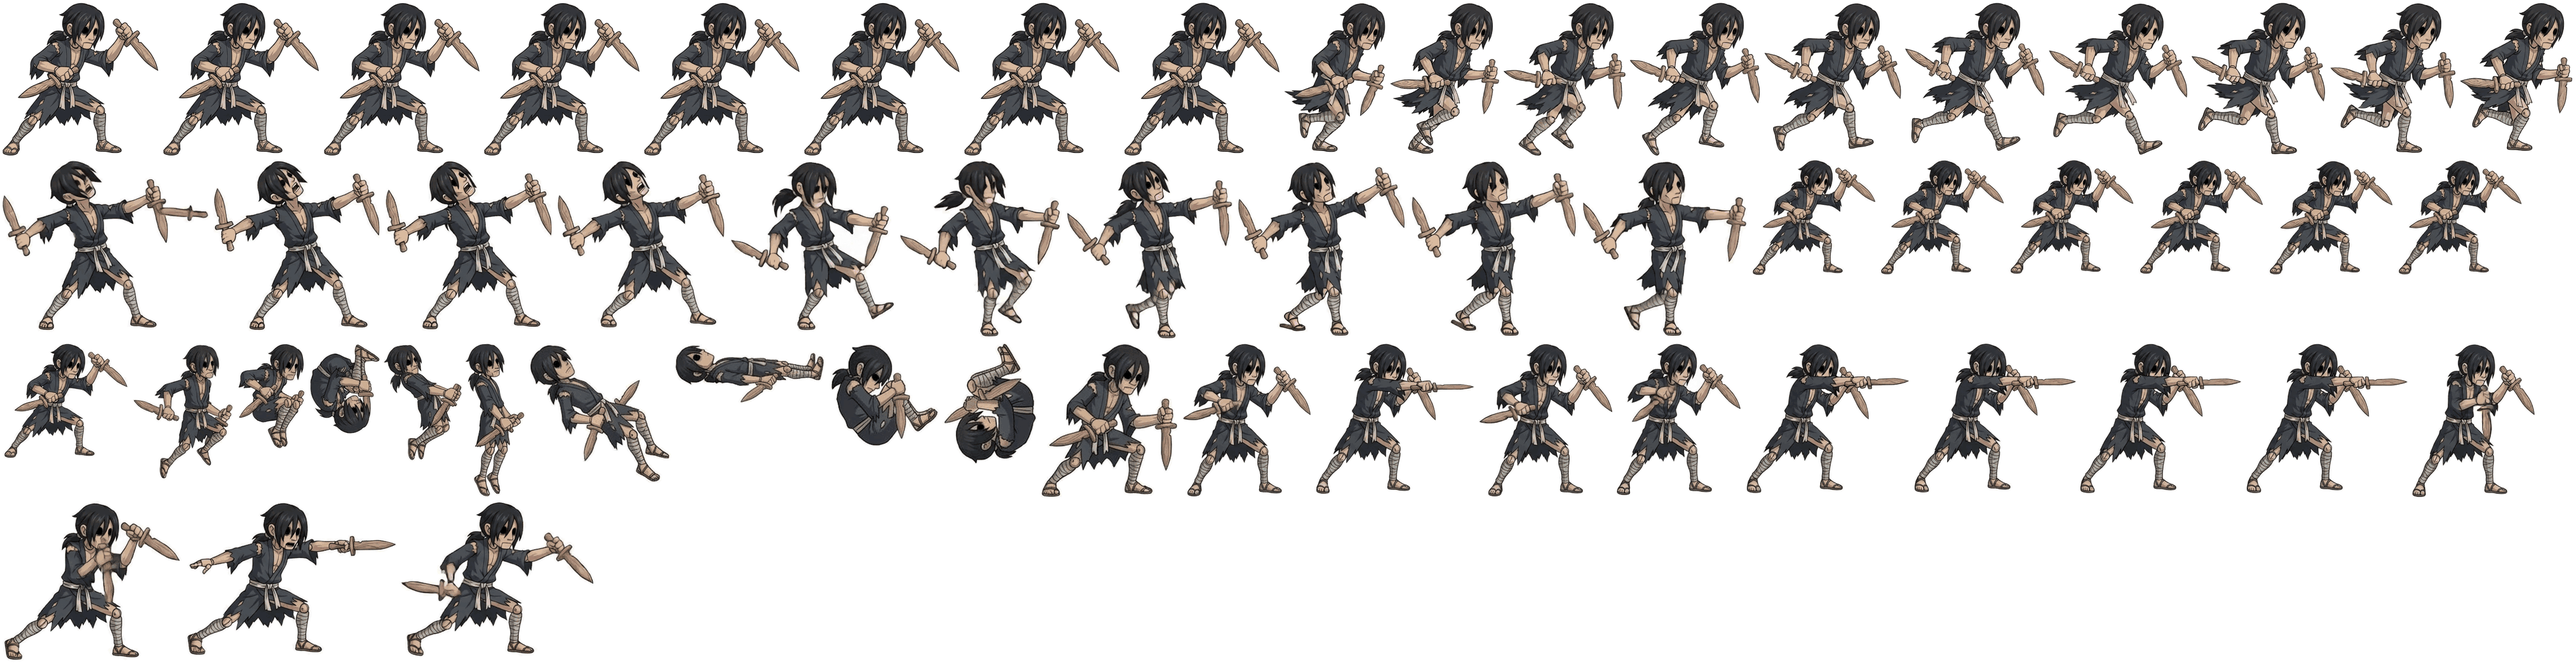
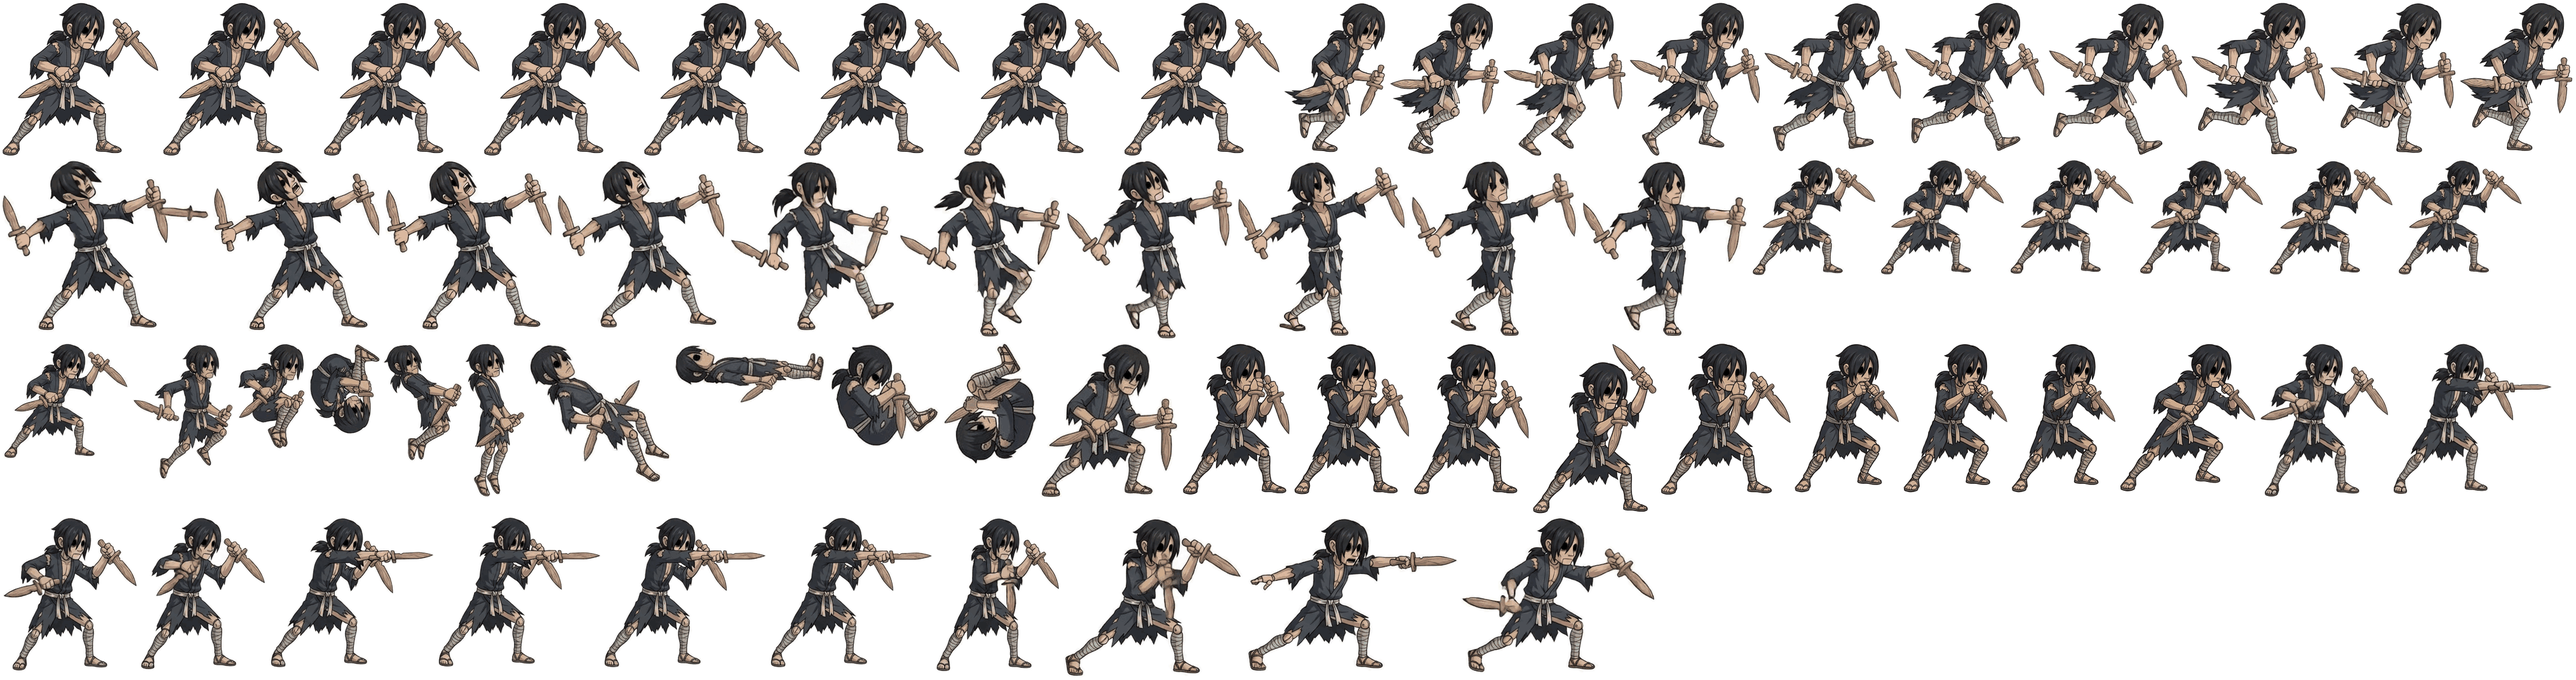
SCRAMBLE: add crouch-block state and wire up Nyx's block art
── ก้มกัน (state ใหม่) ──
เดิมโค้ดเช็ค block ก่อน down เสมอ กด block+ลง จึงได้ 'block' เฉย ๆ ปุ่มลงถูกเมินทั้งหมด
ตอนนี้ block + กดลง = 'blockcrouch' กรอบเตี้ยลงเท่าท่าย่อ (88 เทียบยืน 118)
กันเฉย ๆ ยังเป็น 'block' เหมือนเดิม และย่อเฉย ๆ ยังเป็น 'crouch' เหมือนเดิม ไม่กระทบของเก่า

lowStun: จำไว้ว่า blockstun นี้มาจากท่าก้ม เพื่อให้กรอบเตี้ยตลอดช่วงเซ
ไม่งั้นโดนตีตอนก้มกันแล้วกรอบเด้งสูงกลางคัน = ท่าที่ตีสูงจิ้มโดนหัวได้ทั้งที่ก้มกันอยู่ตลอด

── อาร์ตท่ากัน ──
ชีต 9 ท่า -> block (ท่า 3-5 การ์ดนิ่งแล้ว) + blockstun (ท่า 1-2 การ์ดยังเปิด เล่นครั้งเดียวไม่วน)
ชีต 11 ท่า -> blockcrouch (เลือก 4 ท่า ที่เหลือแทบเหมือนกันหมด)

ชีตทั้งสองเป็นท่ากันล้วน ไม่มีท่ายืนในตัวเองให้ใช้เทียบสเกลเหมือนชีตกระโดด/ชีตล้ม
รูปท่ายืนถูกส่งมาแยกไฟล์ซึ่งถ่ายคนละระยะ (ตัวสูง 1267 px เพราะตัวเดียวเต็มเฟรม
ส่วนในชีตสูงราว 580 เพราะยัด 9-11 ท่าในเฟรมเดียว) จึงเพิ่ม CLIP_STANDING_PX
ให้ระบุความสูงท่ายืนเป็นพิกเซลตรง ๆ ได้

ค่าแรกคิดจากขนาดใบหน้า (551) ลองแล้วตัวใหญ่กว่าท่ายืน 5% ปรับเป็น 585 จากการวัดภาพในเกมจริง
ได้ท่ากันสูง 98% ของท่ายืน และสูงกว่า hurtbox 9% (ท่ายืนสูงกว่ากรอบ 11%) = อยู่ในกรอบพอดีแล้ว

── ที่ยังไม่จบ ──
อาร์ต "ก้มกัน" ที่ส่งมาไม่ได้ก้มจริง วัดในเกมได้ 97% ของความสูงท่ายืน
(ท่าย่อจริงอยู่ที่ 76%) ต่างกันแค่ตำแหน่งแขน ไม่ได้ลดตัวลง
สไปรท์จึงลอยพ้นกรอบ hurtbox ที่เตี้ยลงแล้วถึง 44% ซึ่งเห็นชัดในห้องซ้อมที่เปิดโชว์ hitbox
ไม่แก้ด้วยการย่อสไปรท์ลงให้พอดีกรอบ เพราะนั่นคือการหดตัวละครทั้งตัว
ซึ่งเป็นบั๊กเดียวกับ "ท่าย่อหดเล็ก" ที่เพิ่งแก้ไป — ต้องได้อาร์ตที่ย่อจริงมาแทน
[…]

Changed region(s): [[0.0, 0.0306, 1.0, 1.0]]

diff --git a/game/src/modes/scramble/ScrambleScene.js b/game/src/modes/scramble/ScrambleScene.js
@@ -350,7 +350,8 @@ class ScrambleScene extends Phaser.Scene {
       anchorX: meta.anchorX ?? 192, feetY: meta.feetY ?? 315, standing: meta.standing ?? 300,
       canvasW: meta.canvasW ?? 323, canvasH: meta.canvasH ?? 321,
     };
-    this.nyxAnims = { idle: 8, run: 10, hurt: 10, crouch: 7, jump: 5, knockdown: 2, techroll: 2, tech: 1 };
+    this.nyxAnims = { idle: 8, run: 10, hurt: 10, crouch: 7, jump: 5, knockdown: 2, techroll: 2, tech: 1,
+      block: 3, blockstun: 2, blockcrouch: 4 };
     // ท่าโจมตีที่มีอาร์ตแล้ว — 3 เฟรมต่อท่า: 1 เงื้อ / 2 ฟันสุดแขน / 3 ชักกลับ
     // ไม่ลงทะเบียนเป็น animation เพราะไม่ได้เล่นตามเวลา แต่เลือกเฟรมตาม phase() ของเอนจิ้น
     // (ดู _drawNyxSprite) ท่าที่ยังไม่มีอาร์ตไม่ต้องใส่ เดี๋ยววาดเป็นกล่องเหมือนเดิม
@@ -368,13 +369,14 @@ class ScrambleScene extends Phaser.Scene {
         frameRate:
           n / (name === 'run'
             ? RUN_STRIDE / (PHYS.run * 60)
-            : { idle: 0.8, hurt: 0.5, crouch: 1.2, jump: 0.6, knockdown: 0.25, techroll: 0.22, tech: 0.17 }[name]),
+            : { idle: 0.8, hurt: 0.5, crouch: 1.2, jump: 0.6, knockdown: 0.25, techroll: 0.22, tech: 0.17,
+                block: 1.0, blockstun: 0.2, blockcrouch: 1.0 }[name]),
         // ท่าโดนตีเล่นรอบเดียวแล้วค้างเฟรมสุดท้าย — hitstun ในเอนจิ้นยาวไม่เท่ากัน (17-38 เฟรม)
         // ถ้าวนซ้ำ ตัวจะสะบัดรับแรงซ้ำ ๆ ทั้งที่โดนตีครั้งเดียว
         // ท่าที่ "เล่นจบแล้วค้าง" = ท่าที่เอนจิ้นถือไว้ยาวไม่เท่ากันทุกครั้ง
         // โดนตี: hitstun 17-38 เฟรมแล้วแต่ท่าที่โดน · กระโดด: ลอยนานแค่ไหนแล้วแต่กดค้าง/ชนเพดาน
         // ถ้าวนซ้ำจะเห็นสะบัดรับแรงซ้ำ ๆ หรือตีลังกาวนไม่หยุดกลางอากาศ
-        repeat: ["hurt", "jump", "knockdown", "tech"].includes(name) ? 0 : -1,
+        repeat: ["hurt", "jump", "knockdown", "tech", "blockstun"].includes(name) ? 0 : -1,
       });
     }
     this.nyx = this.add.sprite(0, 0, 'scnyx', 'idle_1.png').setVisible(false).setDepth(5);
@@ -411,6 +413,7 @@ class ScrambleScene extends Phaser.Scene {
       run: 'run', walk: 'run', idle: 'idle', crouch: 'crouch',
       air: 'jump', landing: 'jump',
       hitstun: 'hurt', knockdown: 'knockdown', techroll: 'techroll', tech: 'tech',
+      block: 'block', blockcrouch: 'blockcrouch', blockstun: 'blockstun',
     }[f.state] ?? null;
     if (!key) { this.nyx.setVisible(false); return false; }
 

diff --git a/game/src/modes/scramble/core.js b/game/src/modes/scramble/core.js
@@ -92,7 +92,7 @@ const MOVES = {
     untilLand: true, landLag: 14, pogo: -12 },
 };
 
-const ACTIONABLE = new Set(['idle', 'walk', 'run', 'crouch', 'air', 'block']);
+const ACTIONABLE = new Set(['idle', 'walk', 'run', 'crouch', 'air', 'block', 'blockcrouch']);
 
 class Fighter {
   constructor(id, name, x, facing) {
@@ -108,7 +108,14 @@ class Fighter {
       comboHits: 0, comboDmg: 0, wallBounced: false, jumpHeldSinceTakeoff: false, techBuf: 0, techLock: 0,
     });
   }
-  get h() { return (this.state === 'crouch' || (this.move && this.move.crouch) || this.state === 'knockdown' || this.state === 'techroll') ? PHYS.crouchH : PHYS.standH; }
+  // กันแบบก้ม (blockcrouch) ตัวเตี้ยเท่าท่าย่อ — ไม่งั้นก้มกันแล้วกรอบยังสูงเท่าเดิม ก็ไม่ต่างจากกันยืน
+  // lowStun = จำไว้ว่า blockstun นี้มาจากท่าก้ม เพื่อให้กรอบยังเตี้ยตลอดช่วงเซ ไม่เด้งสูงกลางคัน
+  // (เด้งสูงกลางคันแปลว่าท่าที่ตีสูงจะจิ้มโดนหัวได้ ทั้งที่ผู้เล่นก้มกันอยู่ตลอด)
+  get h() {
+    const low = this.state === 'crouch' || this.state === 'blockcrouch' || (this.state === 'blockstun' && this.lowStun)
+      || (this.move && this.move.crouch) || this.state === 'knockdown' || this.state === 'techroll';
+    return low ? PHYS.crouchH : PHYS.standH;
+  }
   hurtbox() { const w = PHYS.width; return { x: this.x - w / 2, y: this.y - this.h, w, h: this.h }; }
   hitbox() {
     const m = this.move; if (!m || this.state !== 'attack') return null;
@@ -265,7 +272,9 @@ class Game {
       this.startMove(f, this.pickMove(f, inp), dir); return;
     }
     if (f.onGround) {
-      if (inp.block) { f.setState('block'); f.vx *= PHYS.stopFric; return; }
+      // กัน + กดลง = ก้มกัน (กรอบเตี้ยลงเท่าท่าย่อ) · กันเฉย ๆ = กันยืนเหมือนเดิม
+      // เช็ค block ก่อน down เหมือนเดิม ท่าย่อธรรมดาจึงไม่เปลี่ยนพฤติกรรม
+      if (inp.block) { f.setState(inp.down ? 'blockcrouch' : 'block'); f.vx *= PHYS.stopFric; return; }
       if (inp.down) { f.setState('crouch'); f.vx *= PHYS.stopFric; return; }
       if (dir !== 0) {
         f.facing = dir;
@@ -403,7 +412,8 @@ class Game {
     const m = a.move; a.hitList.add(d.id); a.hitConfirmed = true;
     const fx = hb.x + hb.w / 2, fy = hb.y + hb.h / 2;
     const facingAttacker = Math.sign(a.x - d.x) === d.facing || a.x === d.x;
-    if (d.state === 'block' && d.onGround && facingAttacker) {
+    if ((d.state === 'block' || d.state === 'blockcrouch') && d.onGround && facingAttacker) {
+      d.lowStun = d.state === 'blockcrouch';
       d.setState('blockstun'); d.stun = Math.ceil(m.stun * 0.45);
       d.vx = a.facing * 5; a.vx = -a.facing * 3;
       a.hitstop = d.hitstop = 4;

diff --git a/game/tools/build_scramble_nyx.py b/game/tools/build_scramble_nyx.py
@@ -61,6 +61,14 @@ SEQ = {
     # ไม่ใช่ animation ที่เล่นตามเวลา แต่ฉากเลือกเฟรมจาก phase() ของเอนจิ้นตรง ๆ (startup/active/recovery)
     # จึงตรงกับเฟรมเดต้าเป๊ะโดยไม่ต้องกะ fps ให้พอดีเอง — ดู _drawNyxSprite ใน ScrambleScene.js
     # เลี่ยงเฟรมที่มีเส้นฟัน (f65 ของคลิป jab) ตามกติกาใน HANDOFF: VFX วาดในเอนจิ้น ไม่เอาติดมากับอาร์ต
+    # ---- ท่ากัน ----
+    # block       = กันยืนค้าง (ท่า 3-5 ของชีต = การ์ดนิ่งแล้ว ท่า 1-2 เป็นจังหวะยกการ์ดขึ้น)
+    # blockstun   = โดนตีขณะกัน ใช้ท่า 1-2 ที่การ์ดยังเปิด/ดาบสะบัดขึ้น เล่นครั้งเดียวไม่วน
+    # blockcrouch = ก้มกัน (ชีตอีกไฟล์ ท่าเกือบเหมือนกันหมด เลือกมา 4 ท่าพอ)
+    "block":       ("@block_sheet",    range(3, 6)),
+    "blockstun":   ("@block_sheet",    range(1, 3)),
+    "blockcrouch": ("@blocklow_sheet", range(1, 5)),
+
     "jab1": ("jab",   [38, 46, 58]),
     "jab2": ("jab",   [120, 127, 134]),
     "jab3": ("jab",   [146, 154, 162]),
@@ -80,6 +88,21 @@ CLIP_REF = {
     "@down_sheet": 5,                 # ท่า 5 = ลุกยืนตั้งการ์ด
     "jab": "jab/f_030.png",           # f30 = ท่ายืนก่อนออกหมัด
     "lunge": "lunge/f_070.png",       # f70 = ท่ายืนก่อนพุ่ง
+}
+
+# ความสูง "ท่ายืน" ของแหล่งที่ไม่มีท่ายืนอยู่ในตัวเอง — ระบุเป็นพิกเซลตรง ๆ
+#
+# ชีตท่ากันสองไฟล์เป็นท่ากันล้วนทั้งชีต ไม่มีท่ายืนตรงให้ใช้เป็นตัวเทียบสเกลเหมือนชีตอื่น
+# รูปท่ายืนถูกส่งมาแยกอีกไฟล์ ซึ่งถ่ายมาคนละระยะ (ตัวสูง 1267 px เพราะตัวเดียวเต็มเฟรม
+# ส่วนในชีตตัวสูงราว 580 เพราะยัด 9-11 ท่าในเฟรมเดียว)
+# เทียบขนาดใบหน้าได้ว่าชีตเล็กกว่ารูปยืน 2.30 เท่า -> ท่ายืนที่สเกลของชีต = 1267 / 2.30 = 551
+# ชีตก้มกันวัดได้ 2.73 เท่า แต่ท่าในชีตนั้นมีกำปั้นบังหน้าเกือบทุกท่า ตัวเลขจึงต่ำกว่าจริง
+# ใช้ค่าเดียวกับชีตยืนไปก่อนแล้วดูของจริงในเกม (ตกลงกับผู้เล่นไว้ว่าจะวัดจากภาพในเกมแล้วค่อยปรับ)
+# วัดจากภาพในเกมรอบแรกแล้วปรับ (551 ทำให้ตัวใหญ่กว่าท่ายืน 5%) — 585 ได้ท่ากันสูง 98% ของท่ายืน
+# ซึ่งถูกต้องสำหรับท่าตั้งการ์ดที่ย่อเข่านิดหน่อย
+CLIP_STANDING_PX = {
+    "@block_sheet": 585,
+    "@blocklow_sheet": 585,
 }
 
 # ตัวคูณสเกลเฉพาะท่า — ใช้เมื่ออาร์ตต้นฉบับ "ถูกต้องตามภาพ" แต่ไม่ตรงกับที่เกมต้องการ
@@ -124,6 +147,9 @@ def source_frame(src, n):
 
 # สเกลของแต่ละแหล่ง = ทำให้ "ท่ายืน" ของแหล่งนั้นสูงเท่ากับ STANDING เสมอ
 SCALE = {}
+for src, px in CLIP_STANDING_PX.items():
+    SCALE[src] = STANDING / px
+    print(f"  {src:18s} ท่ายืนสูง {px:4d} px -> สเกล {SCALE[src]:.4f}  (ระบุเป็นพิกเซล ชีตไม่มีท่ายืนในตัว)")
 for src, ref in CLIP_REF.items():
     if src.startswith("@"):
         _, rb, _ = source_frame(src, ref)
